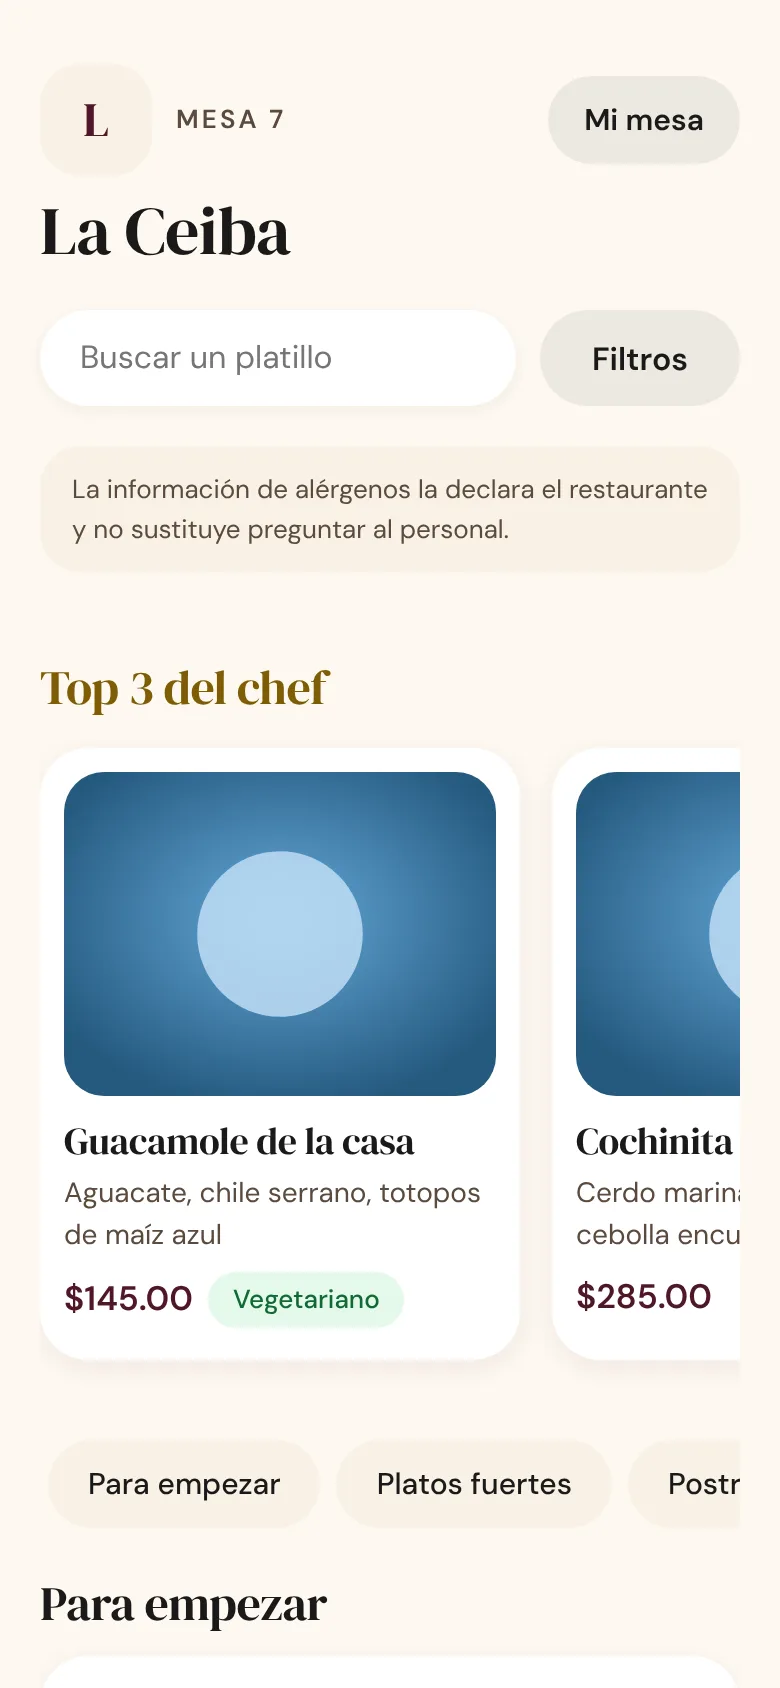
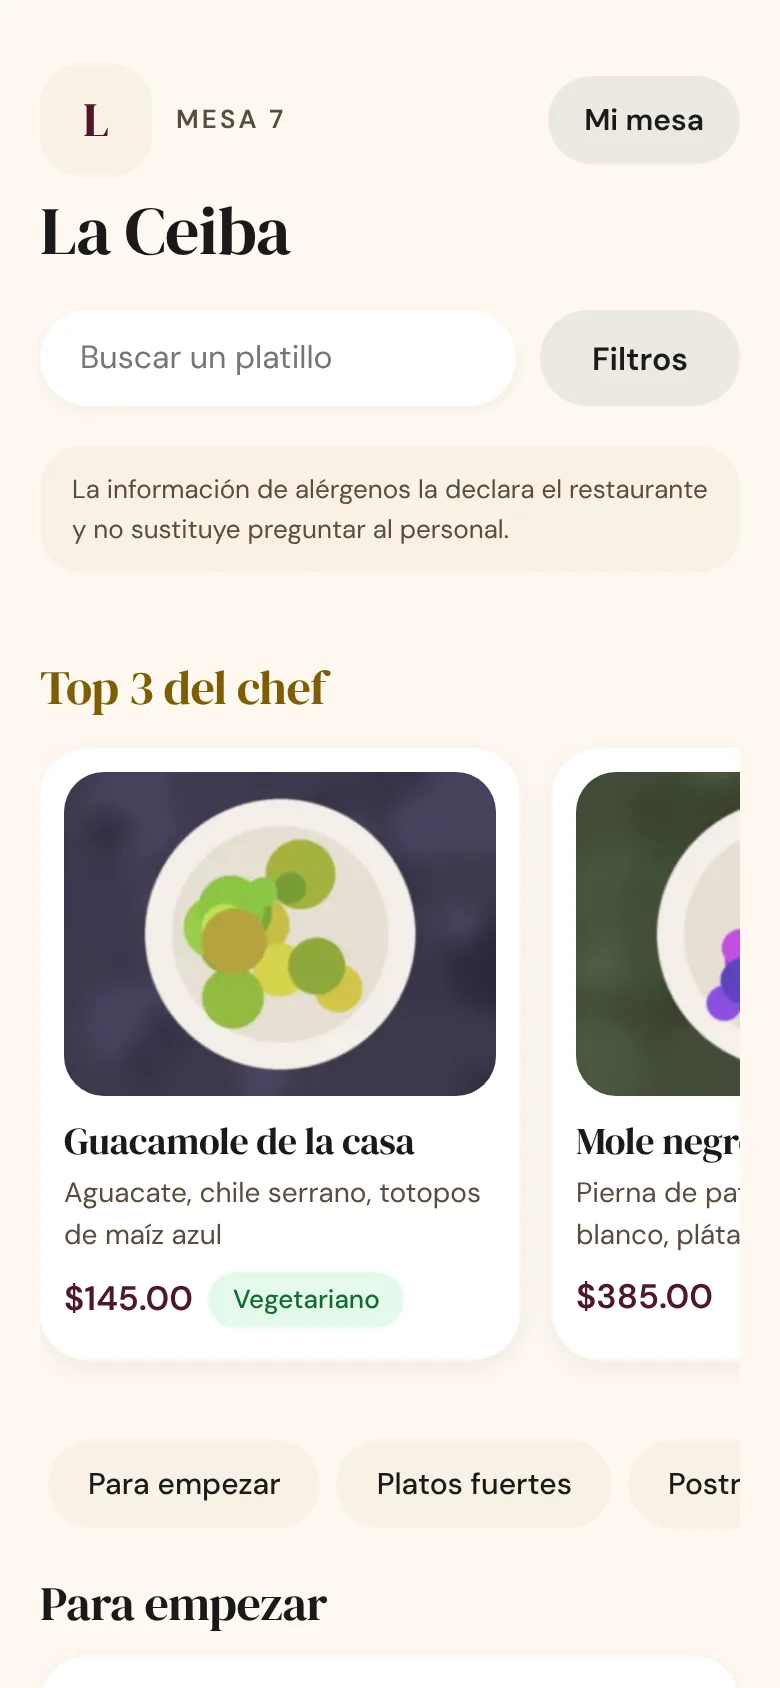
investigación: planos v9, presentación con fotos reales del seed, barra de estado común y acrílico con QR en la toma 01
Claude-Session: https://claude.ai/code/session_01T4zNEqMtXPb9f7DoikrNHg

Changed region(s): [[0.0615, 0.4313, 0.6462, 0.6469], [0.7385, 0.4313, 0.9538, 0.7701]]

diff --git a/docs/informes/2026-11-14-planos-de-carta-v4/interactivo.html b/docs/informes/2026-11-14-planos-de-carta-v4/interactivo.html
@@ -182,7 +182,26 @@ main{padding-block:12px 28px}
 #film .fphone{position:absolute;left:1180px;top:116px;width:380px;height:822px;border-radius:52px;box-shadow:0 0 0 11px #100c0a,0 0 0 13px #3a322d,0 70px 130px rgba(0,0,0,.6),0 24px 48px rgba(0,0,0,.4);opacity:0;visibility:hidden}
 #film .fscr{position:absolute;inset:0;border-radius:52px;overflow:hidden;background:#fef9f1}
 #film .fscr .s{position:absolute;left:0;top:0;width:100%;height:100%;display:block;opacity:0;object-fit:cover;object-position:top}
-#film .fscr .s.sc{opacity:1}
+#film .fscr .s.sc{opacity:0}
+#film .fscr .s.re{top:3.9%;height:96.1%}
+#film .fscr .s.pr{top:0;height:100%}
+#film .fvf{position:absolute;inset:0;background:radial-gradient(ellipse at 50% 40%,#2b201b,#120d0b)}
+#film .fvf i{position:absolute;width:64px;height:64px;border:4px solid #fdc34d;border-radius:14px}
+#film .fvf i:nth-child(1){left:70px;top:230px;border-right:0;border-bottom:0}#film .fvf i:nth-child(2){right:70px;top:230px;border-left:0;border-bottom:0}#film .fvf i:nth-child(3){left:70px;top:480px;border-right:0;border-top:0}#film .fvf i:nth-child(4){right:70px;top:480px;border-left:0;border-top:0}
+#film .fstat{position:absolute;left:0;right:0;top:0;height:50px;background:rgba(254,248,241,0);color:#fef9f1;z-index:3;pointer-events:none}
+#film .fstat b{position:absolute;left:34px;top:13px;font:700 17px 'DM Sans',sans-serif}
+#film .fstat .isla{position:absolute;left:50%;top:10px;width:104px;height:30px;margin-left:-52px;border-radius:16px;background:#000}
+#film .fstat .ico{position:absolute;right:30px;top:15px;display:flex;gap:4px;align-items:flex-end}
+#film .fstat .ico u{display:block;width:4px;border-radius:1px;background:currentColor}#film .fstat .ico u:nth-child(1){height:6px}#film .fstat .ico u:nth-child(2){height:9px}#film .fstat .ico u:nth-child(3){height:12px}
+#film .fstat .ico em{display:block;width:22px;height:11px;border:1.6px solid currentColor;border-radius:4px;margin-left:6px;background:linear-gradient(90deg,currentColor 75%,transparent 75%)}
+#film .facr{position:absolute;left:1220px;top:230px;width:300px;height:560px;opacity:0;visibility:hidden}
+#film .facr .cuerpo{position:absolute;left:0;top:0;width:300px;height:470px;border-radius:26px;background:linear-gradient(160deg,rgba(255,255,255,.34),rgba(255,255,255,.1));border:2px solid rgba(255,255,255,.4);box-shadow:0 40px 90px rgba(0,0,0,.5);display:flex;flex-direction:column;align-items:center;justify-content:center;gap:10px;overflow:hidden}
+#film .facr .qr{background:#fff;border-radius:16px;padding:14px;line-height:0}
+#film .facr b{font-family:'DM Serif Display',serif;font-weight:400;font-size:54px;color:#fef9f1;margin-top:6px}
+#film .facr span{font-size:22px;letter-spacing:.2em;text-transform:uppercase;color:#fdc34d;font-weight:600}
+#film .facr .pie{position:absolute;left:60px;top:466px;width:180px;height:44px;border-radius:0 0 22px 22px;background:linear-gradient(rgba(255,255,255,.22),rgba(255,255,255,.06));border:2px solid rgba(255,255,255,.3);border-top:0}
+#film .facr .sw{position:absolute;top:-20px;left:0;width:90px;height:520px;background:linear-gradient(90deg,rgba(253,195,77,0),rgba(253,195,77,.55),rgba(253,195,77,0));transform:skewX(-14deg);opacity:0}
+
 #film .ftap{position:absolute;width:76px;height:76px;margin:-38px 0 0 -38px;border-radius:50%;background:rgba(255,255,255,.34);border:3px solid rgba(255,255,255,.9);opacity:0;left:50%;top:80%}
 #film .ftoast{position:absolute;left:600px;top:110px;width:520px;padding:22px 28px;border-radius:28px;background:#fef9f1;color:#1a1a1a;box-shadow:0 30px 70px rgba(0,0,0,.5);display:flex;flex-direction:column;gap:6px;opacity:0;visibility:hidden}
 #film .ftoast b{font-family:'DM Serif Display',serif;font-weight:400;font-size:34px;color:#4f1728}
@@ -7208,10 +7227,22 @@ const FILM_TOMAS = [
   ["05", "ATIENDE", ["El personal", "*lleva la mesa*."], "", "fase3"],
 ];
 const filmPalabras = l => l.split(/(\*[^*]+\*)/).filter(Boolean).map(tr => { const em = tr.startsWith("*"), tx = em ? tr.slice(1, -1) : tr; return (/^ /.test(tx) ? " " : "") + tx.split(" ").filter(Boolean).map(p => `<span class="w">${em ? "<em>" + esc(p) + "</em>" : esc(p)}</span>`).join(" ") + (/ $/.test(tx) ? " " : ""); }).join("");
+/* un QR de adorno: tres cuadros guía y celdas pseudoaleatorias deterministas; no codifica nada */
+const filmQR = () => {
+  const N = 21, c = 11; let x = 7, o = "";
+  const guia = (i, j) => (i < 7 && j < 7) || (i < 7 && j >= N - 7) || (i >= N - 7 && j < 7);
+  for (let i = 0; i < N; i++) for (let j = 0; j < N; j++) {
+    x = (x * 1103515245 + 12345) % 2147483648; let on = (x >> 8) % 100 < 48;
+    if (guia(i, j)) { const a = i % (N - 7) === i ? i : i - (N - 7), b = j % (N - 7) === j ? j : j - (N - 7), r = Math.max(Math.abs(a - 3), Math.abs(b - 3)); on = r === 3 || r <= 1; if (i >= N - 7) { const a2 = i - (N - 7), r2 = Math.max(Math.abs(a2 - 3), Math.abs(j - 3)); on = r2 === 3 || r2 <= 1; } if (j >= N - 7 && i < 7) { const b2 = j - (N - 7), r3 = Math.max(Math.abs(i - 3), Math.abs(b2 - 3)); on = r3 === 3 || r3 <= 1; } }
+    if (on) o += `<rect x="${j * c}" y="${i * c}" width="${c}" height="${c}"/>`;
+  }
+  return `<svg viewBox="0 0 ${N * c} ${N * c}" width="190" height="190" fill="#1a1a1a" shape-rendering="crispEdges">${o}</svg>`;
+};
 const filmHtml = () => `<div id="film"><div class="fbg"><img class="ffoto" src="${FILM_IMG.fondo}" alt=""><i class="fg1"></i><i class="fg2"></i><i class="fvig"></i></div>
 <div class="ft ft0"><div class="fhook">${filmPalabras("Todo empieza en *la mesa*.")}</div><div class="fmarca"><b>Carta</b><i></i><span>El menú que la mesa arma junta</span></div></div>
 ${FILM_TOMAS.map((t, i) => `<div class="ft ft${i + 1}"><div class="fkick"><span class="n">${t[0]}</span><i class="rl"></i><span class="lb">${t[1]}</span><span class="tg ${t[4]}">${t[4] === "hoy" ? "hoy en producción" : "Fase 3 · prototipo"}</span></div><h3 class="fh">${t[2].map(l => `<span class="ln">${filmPalabras(l)}</span>`).join("")}</h3>${t[3] ? `<p class="fsub">${esc(t[3])}</p>` : ""}${i === 4 ? `<div class="frail">${["Abierta", "Cuenta cerrada", "Pagada", "Mesa limpia"].map((e, k) => `<div class="fpaso"><span class="pt">${k + 1}</span><span>${e}</span></div>`).join("")}</div>` : ""}</div>`).join("")}
-<div id="fcam"><div class="fphone"><div class="fscr"><img class="s sc" src="${FILM_IMG.scan}" alt=""><img class="s mn" src="${FILM_IMG.menu}" alt=""><img class="s en" src="${FILM_IMG.enc}" alt=""><img class="s gr" src="${FILM_IMG.grupo}" alt=""><img class="s ms" src="${FILM_IMG.mesa}" alt=""><i class="ftap"></i></div></div>
+<div class="facr"><div class="cuerpo"><div class="qr">${filmQR()}</div><b>Mesa 7</b><span>La Ceiba</span><i class="sw"></i></div><div class="pie"></div></div>
+<div id="fcam"><div class="fphone"><div class="fscr"><div class="fvf"><i></i><i></i><i></i><i></i></div><img class="s re sc" src="${FILM_IMG.scan}" alt=""><img class="s re mn" src="${FILM_IMG.menu}" alt=""><img class="s re en" src="${FILM_IMG.enc}" alt=""><img class="s pr gr" src="${FILM_IMG.grupo}" alt=""><img class="s pr ms" src="${FILM_IMG.mesa}" alt=""><div class="fstat"><b>9:41</b><i class="isla"></i><span class="ico"><u></u><u></u><u></u><em></em></span></div><i class="ftap"></i></div></div>
 <div class="ftoast"><b>Comanda nueva</b><span>Mesa 7 · 3 platillos · 4 personas</span></div></div>
 <div class="ft ft6"><div class="fmarca grande"><b>Carta</b><i></i><span>Tu menú, Tu Carta.</span></div></div></div>`;
 
@@ -7239,18 +7270,25 @@ function filmLinea() {
   tl.fromTo(q(".ft0 .fmarca"), {autoAlpha: 0, scale: 0.92}, {autoAlpha: 1, scale: 1, duration: 0.8, ease: "power3.out"}, S(0) + 3.0);
   tl.to(q(".ft0"), {autoAlpha: 0, duration: 0.35, ease: "power2.in"}, S(1) - 0.05);
   /* el teléfono: entra en la 1, se queda hasta la 5 */
-  tl.fromTo(q(".fphone"), {y: 220, autoAlpha: 0, scale: 0.94}, {y: 0, autoAlpha: 1, scale: 1, duration: 1.0, ease: "power3.out"}, S(1) + 0.1);
+  tl.fromTo(q(".facr"), {y: 120, autoAlpha: 0, scale: 0.96}, {y: 0, autoAlpha: 1, scale: 1, duration: 0.9, ease: "power3.out"}, S(1) + 0.15);
+  tl.fromTo(q(".fphone"), {y: 360, autoAlpha: 0, scale: 0.55}, {y: 0, autoAlpha: 1, scale: 1, duration: 1.5, ease: "power3.out"}, S(1) + 0.7);
+  tl.fromTo(q(".facr .sw"), {x: -260, autoAlpha: 0}, {x: 340, autoAlpha: 1, duration: 0.7, ease: "power1.inOut"}, S(1) + 1.7);
+  tl.to(q(".facr"), {autoAlpha: 0, scale: 0.92, duration: 0.5, ease: "power2.in"}, S(1) + 2.3);
+  tl.fromTo(q(".fstat"), {color: "#fef9f1"}, {color: "#1a1a1a", duration: 0.3}, S(1) + 2.3);
+  tl.fromTo(q(".fstat"), {color: "#1a1a1a"}, {color: "#fef9f1", duration: 0.3, immediateRender: false}, S(4) + 0.05);
+  tl.fromTo(q(".fstat"), {backgroundColor: "rgba(254,248,241,0)"}, {backgroundColor: "rgba(254,248,241,1)", duration: 0.2, immediateRender: false}, S(3) + 0.05);
+  tl.fromTo(q(".fstat"), {backgroundColor: "rgba(254,248,241,1)"}, {backgroundColor: "rgb(95,35,53)", duration: 0.2, immediateRender: false}, S(4) + 0.05);
   tl.fromTo(q("#fcam"), {scale: 1, x: 0}, {scale: 1.1, duration: Dn(1) + Dn(2) * 0.5, ease: "sine.inOut"}, S(1));
   tl.to(q("#fcam"), {scale: 1, x: -20, duration: Dn(2) * 0.5 + Dn(3) * 0.4, ease: "sine.inOut"}, S(2) + Dn(2) * 0.5);
   tl.to(q("#fcam"), {scale: 1.06, x: 0, duration: Dn(3) * 0.6 + Dn(4) + Dn(5) * 0.5, ease: "sine.inOut"}, S(3) + Dn(3) * 0.4);
   tl.to(q(".fphone"), {y: 160, autoAlpha: 0, duration: 0.7, ease: "power2.in"}, S(6) - 0.1);
   /* pantallas: se apilan y cada una aparece encima de la anterior */
   const pant = (sel, i, t0 = 0) => tl.fromTo(q(sel), {autoAlpha: 0}, {autoAlpha: 1, duration: 0.45, ease: "power1.inOut"}, S(i) + t0);
-  tl.set(q(".s.sc"), {autoAlpha: 1}, 0);
-  pant(".s.mn", 1, 3.0); pant(".s.en", 2, 2.2); pant(".s.gr", 3, 0.05); pant(".s.ms", 4, 0.05);
+  tl.fromTo(q(".s.sc"), {autoAlpha: 0}, {autoAlpha: 1, duration: 0.5}, S(1) + 2.3);
+  pant(".s.mn", 1, 3.6); pant(".s.en", 2, 2.2); pant(".s.gr", 3, 0.05); pant(".s.ms", 4, 0.05);
   /* toque en Continuar (toma 1) y en «+» del menú (toma 2) */
   const toque = (x, y, t) => { tl.set(q(".ftap"), {left: x, top: y}, t - 0.02).fromTo(q(".ftap"), {autoAlpha: 1, scale: 0.4}, {autoAlpha: 0, scale: 1.7, duration: 0.7, ease: "power2.out"}, t); };
-  toque("50%", "49%", S(1) + 2.5); toque("35%", "46%", S(2) + 1.7);
+  toque("50%", "49%", S(1) + 3.3); toque("35%", "46%", S(2) + 1.7);
   /* tomas 1–5: kicker, rótulo palabra por palabra, subtítulo */
   for (let i = 1; i <= 5; i++) {
     const t = ".ft" + i;

diff --git a/docs/informes/2026-11-14-planos-de-carta-v4/js/e2_film.js b/docs/informes/2026-11-14-planos-de-carta-v4/js/e2_film.js
@@ -15,10 +15,22 @@ const FILM_TOMAS = [
   ["05", "ATIENDE", ["El personal", "*lleva la mesa*."], "", "fase3"],
 ];
 const filmPalabras = l => l.split(/(\*[^*]+\*)/).filter(Boolean).map(tr => { const em = tr.startsWith("*"), tx = em ? tr.slice(1, -1) : tr; return (/^ /.test(tx) ? " " : "") + tx.split(" ").filter(Boolean).map(p => `<span class="w">${em ? "<em>" + esc(p) + "</em>" : esc(p)}</span>`).join(" ") + (/ $/.test(tx) ? " " : ""); }).join("");
+/* un QR de adorno: tres cuadros guía y celdas pseudoaleatorias deterministas; no codifica nada */
+const filmQR = () => {
+  const N = 21, c = 11; let x = 7, o = "";
+  const guia = (i, j) => (i < 7 && j < 7) || (i < 7 && j >= N - 7) || (i >= N - 7 && j < 7);
+  for (let i = 0; i < N; i++) for (let j = 0; j < N; j++) {
+    x = (x * 1103515245 + 12345) % 2147483648; let on = (x >> 8) % 100 < 48;
+    if (guia(i, j)) { const a = i % (N - 7) === i ? i : i - (N - 7), b = j % (N - 7) === j ? j : j - (N - 7), r = Math.max(Math.abs(a - 3), Math.abs(b - 3)); on = r === 3 || r <= 1; if (i >= N - 7) { const a2 = i - (N - 7), r2 = Math.max(Math.abs(a2 - 3), Math.abs(j - 3)); on = r2 === 3 || r2 <= 1; } if (j >= N - 7 && i < 7) { const b2 = j - (N - 7), r3 = Math.max(Math.abs(i - 3), Math.abs(b2 - 3)); on = r3 === 3 || r3 <= 1; } }
+    if (on) o += `<rect x="${j * c}" y="${i * c}" width="${c}" height="${c}"/>`;
+  }
+  return `<svg viewBox="0 0 ${N * c} ${N * c}" width="190" height="190" fill="#1a1a1a" shape-rendering="crispEdges">${o}</svg>`;
+};
 const filmHtml = () => `<div id="film"><div class="fbg"><img class="ffoto" src="${FILM_IMG.fondo}" alt=""><i class="fg1"></i><i class="fg2"></i><i class="fvig"></i></div>
 <div class="ft ft0"><div class="fhook">${filmPalabras("Todo empieza en *la mesa*.")}</div><div class="fmarca"><b>Carta</b><i></i><span>El menú que la mesa arma junta</span></div></div>
 ${FILM_TOMAS.map((t, i) => `<div class="ft ft${i + 1}"><div class="fkick"><span class="n">${t[0]}</span><i class="rl"></i><span class="lb">${t[1]}</span><span class="tg ${t[4]}">${t[4] === "hoy" ? "hoy en producción" : "Fase 3 · prototipo"}</span></div><h3 class="fh">${t[2].map(l => `<span class="ln">${filmPalabras(l)}</span>`).join("")}</h3>${t[3] ? `<p class="fsub">${esc(t[3])}</p>` : ""}${i === 4 ? `<div class="frail">${["Abierta", "Cuenta cerrada", "Pagada", "Mesa limpia"].map((e, k) => `<div class="fpaso"><span class="pt">${k + 1}</span><span>${e}</span></div>`).join("")}</div>` : ""}</div>`).join("")}
-<div id="fcam"><div class="fphone"><div class="fscr"><img class="s sc" src="${FILM_IMG.scan}" alt=""><img class="s mn" src="${FILM_IMG.menu}" alt=""><img class="s en" src="${FILM_IMG.enc}" alt=""><img class="s gr" src="${FILM_IMG.grupo}" alt=""><img class="s ms" src="${FILM_IMG.mesa}" alt=""><i class="ftap"></i></div></div>
+<div class="facr"><div class="cuerpo"><div class="qr">${filmQR()}</div><b>Mesa 7</b><span>La Ceiba</span><i class="sw"></i></div><div class="pie"></div></div>
+<div id="fcam"><div class="fphone"><div class="fscr"><div class="fvf"><i></i><i></i><i></i><i></i></div><img class="s re sc" src="${FILM_IMG.scan}" alt=""><img class="s re mn" src="${FILM_IMG.menu}" alt=""><img class="s re en" src="${FILM_IMG.enc}" alt=""><img class="s pr gr" src="${FILM_IMG.grupo}" alt=""><img class="s pr ms" src="${FILM_IMG.mesa}" alt=""><div class="fstat"><b>9:41</b><i class="isla"></i><span class="ico"><u></u><u></u><u></u><em></em></span></div><i class="ftap"></i></div></div>
 <div class="ftoast"><b>Comanda nueva</b><span>Mesa 7 · 3 platillos · 4 personas</span></div></div>
 <div class="ft ft6"><div class="fmarca grande"><b>Carta</b><i></i><span>Tu menú, Tu Carta.</span></div></div></div>`;
 
@@ -46,18 +58,25 @@ function filmLinea() {
   tl.fromTo(q(".ft0 .fmarca"), {autoAlpha: 0, scale: 0.92}, {autoAlpha: 1, scale: 1, duration: 0.8, ease: "power3.out"}, S(0) + 3.0);
   tl.to(q(".ft0"), {autoAlpha: 0, duration: 0.35, ease: "power2.in"}, S(1) - 0.05);
   /* el teléfono: entra en la 1, se queda hasta la 5 */
-  tl.fromTo(q(".fphone"), {y: 220, autoAlpha: 0, scale: 0.94}, {y: 0, autoAlpha: 1, scale: 1, duration: 1.0, ease: "power3.out"}, S(1) + 0.1);
+  tl.fromTo(q(".facr"), {y: 120, autoAlpha: 0, scale: 0.96}, {y: 0, autoAlpha: 1, scale: 1, duration: 0.9, ease: "power3.out"}, S(1) + 0.15);
+  tl.fromTo(q(".fphone"), {y: 360, autoAlpha: 0, scale: 0.55}, {y: 0, autoAlpha: 1, scale: 1, duration: 1.5, ease: "power3.out"}, S(1) + 0.7);
+  tl.fromTo(q(".facr .sw"), {x: -260, autoAlpha: 0}, {x: 340, autoAlpha: 1, duration: 0.7, ease: "power1.inOut"}, S(1) + 1.7);
+  tl.to(q(".facr"), {autoAlpha: 0, scale: 0.92, duration: 0.5, ease: "power2.in"}, S(1) + 2.3);
+  tl.fromTo(q(".fstat"), {color: "#fef9f1"}, {color: "#1a1a1a", duration: 0.3}, S(1) + 2.3);
+  tl.fromTo(q(".fstat"), {color: "#1a1a1a"}, {color: "#fef9f1", duration: 0.3, immediateRender: false}, S(4) + 0.05);
+  tl.fromTo(q(".fstat"), {backgroundColor: "rgba(254,248,241,0)"}, {backgroundColor: "rgba(254,248,241,1)", duration: 0.2, immediateRender: false}, S(3) + 0.05);
+  tl.fromTo(q(".fstat"), {backgroundColor: "rgba(254,248,241,1)"}, {backgroundColor: "rgb(95,35,53)", duration: 0.2, immediateRender: false}, S(4) + 0.05);
   tl.fromTo(q("#fcam"), {scale: 1, x: 0}, {scale: 1.1, duration: Dn(1) + Dn(2) * 0.5, ease: "sine.inOut"}, S(1));
   tl.to(q("#fcam"), {scale: 1, x: -20, duration: Dn(2) * 0.5 + Dn(3) * 0.4, ease: "sine.inOut"}, S(2) + Dn(2) * 0.5);
   tl.to(q("#fcam"), {scale: 1.06, x: 0, duration: Dn(3) * 0.6 + Dn(4) + Dn(5) * 0.5, ease: "sine.inOut"}, S(3) + Dn(3) * 0.4);
   tl.to(q(".fphone"), {y: 160, autoAlpha: 0, duration: 0.7, ease: "power2.in"}, S(6) - 0.1);
   /* pantallas: se apilan y cada una aparece encima de la anterior */
   const pant = (sel, i, t0 = 0) => tl.fromTo(q(sel), {autoAlpha: 0}, {autoAlpha: 1, duration: 0.45, ease: "power1.inOut"}, S(i) + t0);
-  tl.set(q(".s.sc"), {autoAlpha: 1}, 0);
-  pant(".s.mn", 1, 3.0); pant(".s.en", 2, 2.2); pant(".s.gr", 3, 0.05); pant(".s.ms", 4, 0.05);
+  tl.fromTo(q(".s.sc"), {autoAlpha: 0}, {autoAlpha: 1, duration: 0.5}, S(1) + 2.3);
+  pant(".s.mn", 1, 3.6); pant(".s.en", 2, 2.2); pant(".s.gr", 3, 0.05); pant(".s.ms", 4, 0.05);
   /* toque en Continuar (toma 1) y en «+» del menú (toma 2) */
   const toque = (x, y, t) => { tl.set(q(".ftap"), {left: x, top: y}, t - 0.02).fromTo(q(".ftap"), {autoAlpha: 1, scale: 0.4}, {autoAlpha: 0, scale: 1.7, duration: 0.7, ease: "power2.out"}, t); };
-  toque("50%", "49%", S(1) + 2.5); toque("35%", "46%", S(2) + 1.7);
+  toque("50%", "49%", S(1) + 3.3); toque("35%", "46%", S(2) + 1.7);
   /* tomas 1–5: kicker, rótulo palabra por palabra, subtítulo */
   for (let i = 1; i <= 5; i++) {
     const t = ".ft" + i;

diff --git a/docs/informes/2026-11-14-planos-de-carta-v4/interactivo.tpl.html b/docs/informes/2026-11-14-planos-de-carta-v4/interactivo.tpl.html
@@ -182,7 +182,26 @@ main{padding-block:12px 28px}
 #film .fphone{position:absolute;left:1180px;top:116px;width:380px;height:822px;border-radius:52px;box-shadow:0 0 0 11px #100c0a,0 0 0 13px #3a322d,0 70px 130px rgba(0,0,0,.6),0 24px 48px rgba(0,0,0,.4);opacity:0;visibility:hidden}
 #film .fscr{position:absolute;inset:0;border-radius:52px;overflow:hidden;background:#fef9f1}
 #film .fscr .s{position:absolute;left:0;top:0;width:100%;height:100%;display:block;opacity:0;object-fit:cover;object-position:top}
-#film .fscr .s.sc{opacity:1}
+#film .fscr .s.sc{opacity:0}
+#film .fscr .s.re{top:3.9%;height:96.1%}
+#film .fscr .s.pr{top:0;height:100%}
+#film .fvf{position:absolute;inset:0;background:radial-gradient(ellipse at 50% 40%,#2b201b,#120d0b)}
+#film .fvf i{position:absolute;width:64px;height:64px;border:4px solid #fdc34d;border-radius:14px}
+#film .fvf i:nth-child(1){left:70px;top:230px;border-right:0;border-bottom:0}#film .fvf i:nth-child(2){right:70px;top:230px;border-left:0;border-bottom:0}#film .fvf i:nth-child(3){left:70px;top:480px;border-right:0;border-top:0}#film .fvf i:nth-child(4){right:70px;top:480px;border-left:0;border-top:0}
+#film .fstat{position:absolute;left:0;right:0;top:0;height:50px;background:rgba(254,248,241,0);color:#fef9f1;z-index:3;pointer-events:none}
+#film .fstat b{position:absolute;left:34px;top:13px;font:700 17px 'DM Sans',sans-serif}
+#film .fstat .isla{position:absolute;left:50%;top:10px;width:104px;height:30px;margin-left:-52px;border-radius:16px;background:#000}
+#film .fstat .ico{position:absolute;right:30px;top:15px;display:flex;gap:4px;align-items:flex-end}
+#film .fstat .ico u{display:block;width:4px;border-radius:1px;background:currentColor}#film .fstat .ico u:nth-child(1){height:6px}#film .fstat .ico u:nth-child(2){height:9px}#film .fstat .ico u:nth-child(3){height:12px}
+#film .fstat .ico em{display:block;width:22px;height:11px;border:1.6px solid currentColor;border-radius:4px;margin-left:6px;background:linear-gradient(90deg,currentColor 75%,transparent 75%)}
+#film .facr{position:absolute;left:1220px;top:230px;width:300px;height:560px;opacity:0;visibility:hidden}
+#film .facr .cuerpo{position:absolute;left:0;top:0;width:300px;height:470px;border-radius:26px;background:linear-gradient(160deg,rgba(255,255,255,.34),rgba(255,255,255,.1));border:2px solid rgba(255,255,255,.4);box-shadow:0 40px 90px rgba(0,0,0,.5);display:flex;flex-direction:column;align-items:center;justify-content:center;gap:10px;overflow:hidden}
+#film .facr .qr{background:#fff;border-radius:16px;padding:14px;line-height:0}
+#film .facr b{font-family:'DM Serif Display',serif;font-weight:400;font-size:54px;color:#fef9f1;margin-top:6px}
+#film .facr span{font-size:22px;letter-spacing:.2em;text-transform:uppercase;color:#fdc34d;font-weight:600}
+#film .facr .pie{position:absolute;left:60px;top:466px;width:180px;height:44px;border-radius:0 0 22px 22px;background:linear-gradient(rgba(255,255,255,.22),rgba(255,255,255,.06));border:2px solid rgba(255,255,255,.3);border-top:0}
+#film .facr .sw{position:absolute;top:-20px;left:0;width:90px;height:520px;background:linear-gradient(90deg,rgba(253,195,77,0),rgba(253,195,77,.55),rgba(253,195,77,0));transform:skewX(-14deg);opacity:0}
+
 #film .ftap{position:absolute;width:76px;height:76px;margin:-38px 0 0 -38px;border-radius:50%;background:rgba(255,255,255,.34);border:3px solid rgba(255,255,255,.9);opacity:0;left:50%;top:80%}
 #film .ftoast{position:absolute;left:600px;top:110px;width:520px;padding:22px 28px;border-radius:28px;background:#fef9f1;color:#1a1a1a;box-shadow:0 30px 70px rgba(0,0,0,.5);display:flex;flex-direction:column;gap:6px;opacity:0;visibility:hidden}
 #film .ftoast b{font-family:'DM Serif Display',serif;font-weight:400;font-size:34px;color:#4f1728}
